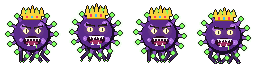
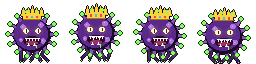
Superbug and Mothership: no eyebrows
Claude-Session: https://claude.ai/code/session_01KMW7bGmfwe6c2A4HCXBX2f

diff --git a/tools/sprites/bosses.py b/tools/sprites/bosses.py
@@ -231,8 +231,8 @@ def superbug(c, p):
         c.ellipse(cx + x, cy + y, r, r, hexc("#b070e0"))
         c.px(cx + x - 1, cy + y - 1, hexc("#e0b0ff"))
     # the face: angry glowing eyes and a big fanged mouth
-    glowing_eye(c, cx - 6, cy - 3, 3.2, hexc("#ffe040"), -1)
-    glowing_eye(c, cx + 6, cy - 3, 3.2, hexc("#ffe040"), 1)
+    glowing_eye(c, cx - 6, cy - 3, 3.2, hexc("#ffe040"))  # no brows (user)
+    glowing_eye(c, cx + 6, cy - 3, 3.2, hexc("#ffe040"))
     c.ellipse(cx, cy + 7, 9, 4.5, hexc("#2a0a20"))
     c.ellipse(cx, cy + 9, 6, 2, hexc("#a03060"))
     for x in (-6, -3, 0, 3, 6):
@@ -362,8 +362,8 @@ def mothership(c, p):
     for side in (-1, 1):
         c.ellipse(32 + side * 6, 18 + b, 1.2, 1.2, hexc("#6ad070"))  # antenna bulbs
         c.line([(32 + side * 3, 21 + b), (32 + side * 6, 18 + b)], hexc("#4aa050"))
-    glowing_eye(c, 29, 25 + b, 2, hexc("#ff3050"), -1)
-    glowing_eye(c, 35, 25 + b, 2, hexc("#ff3050"), 1)
+    glowing_eye(c, 29, 25 + b, 2, hexc("#ff3050"))  # no brows (user)
+    glowing_eye(c, 35, 25 + b, 2, hexc("#ff3050"))
     c.line([(30, 29 + b), (32, 28.5 + b), (34, 29 + b)], BLACK)
     c.px(26, 16 + b, WHITE)  # glass glint
     c.px(27, 15 + b, WHITE)
